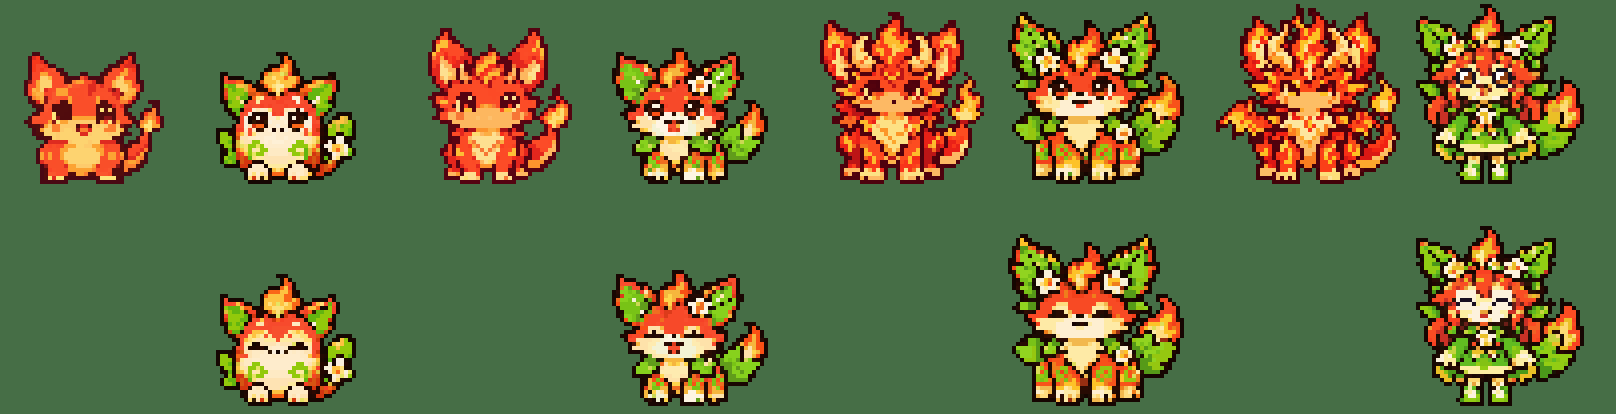
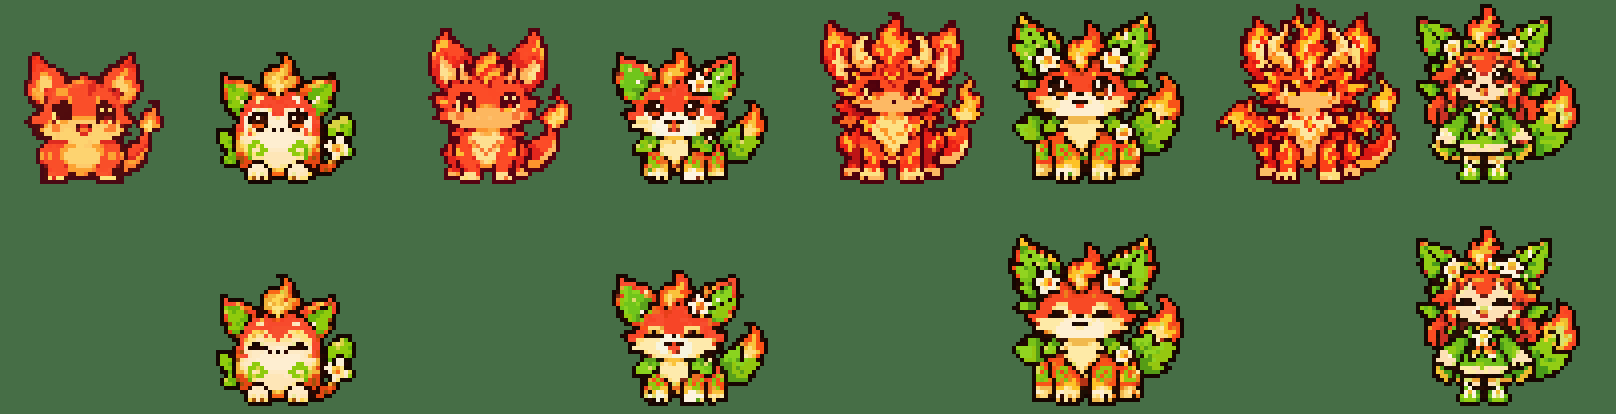
森泉四個階段眼睛都做左右鏡像（新增 --mir 精準鏡像，睜眼閉眼都套）
Claude-Session: https://claude.ai/code/session_01Asf9UbikJHEseEPnq7CYMU

diff --git a/tools/import_fusion.py b/tools/import_fusion.py
@@ -130,6 +130,12 @@ def main(name, path=None, base=None, eyes=None, iris=('#2a3a8a', '#e8a030'), esi
             if mouth:   # 小小的 ω 嘴（清殘影時會被一起清掉，補回來）
                 for im in ims:
                     for dx, dy in ((0, 0), (1, 1), (2, 1), (3, 0)): im[mouth[1] + dy, mouth[0] + dx] = (70, 30, 20, 255)
+        for mr in [q for q in MIR if q[0] == st]:   # --mir：在 48 格上精準鏡像（x → 軸2 − x），睜眼閉眼都套，兩眼一模一樣大
+            _, mx0, mx1, my0, my1, ax2 = mr
+            for im in ims:
+                src = im.copy()
+                for yy in range(my0, my1 + 1):
+                    for xx in range(mx0, mx1 + 1): im[yy, ax2 - xx] = src[yy, xx]
         for kind, im in zip(('open', 'closed'), ims): Image.fromarray(im, 'RGBA').save(os.path.join(out, f'{name}_{st}_{kind}.png'))
         res.append(ims)
     S = 4; pv = Image.new('RGBA', (4 * (CELL * S * 2 + 20), CELL * S * 2 + 30), (70, 110, 70, 255))
@@ -140,6 +146,8 @@ def main(name, path=None, base=None, eyes=None, iris=('#2a3a8a', '#e8a030'), esi
         for r in range(2): pv.alpha_composite(Image.fromarray(res[c][r], 'RGBA').resize((CELL * S, CELL * S), Image.NEAREST), (X + CELL * S, r * (CELL * S + 30)))
     pv.save(os.path.join(ROOT, 'art', f'preview-fusion-{name}.png'))
 
+
+MIR = [[int(v) for v in x[6:].replace(':', ',').split(',')] for x in sys.argv[1:] if x.startswith('--mir=')]   # --mir=階段:x0,x1,y0,y1,軸2（可重複）
 
 if __name__ == '__main__':
     opt = lambda k: next((x[len(k) + 3:] for x in sys.argv[1:] if x.startswith('--' + k + '=')), None)
